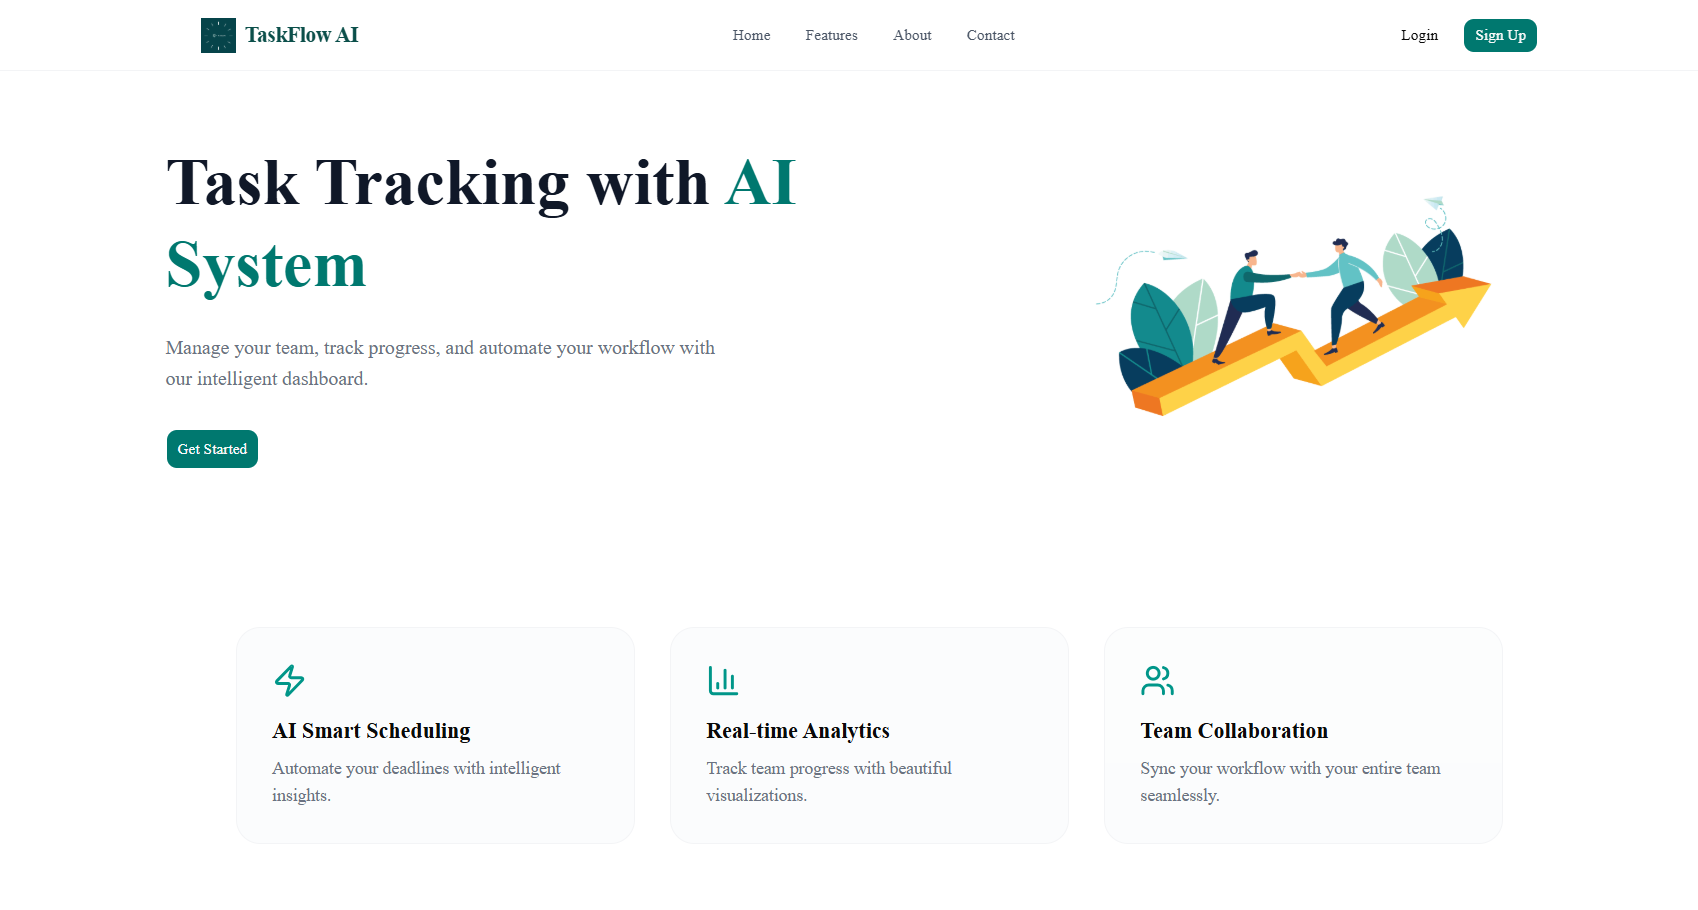
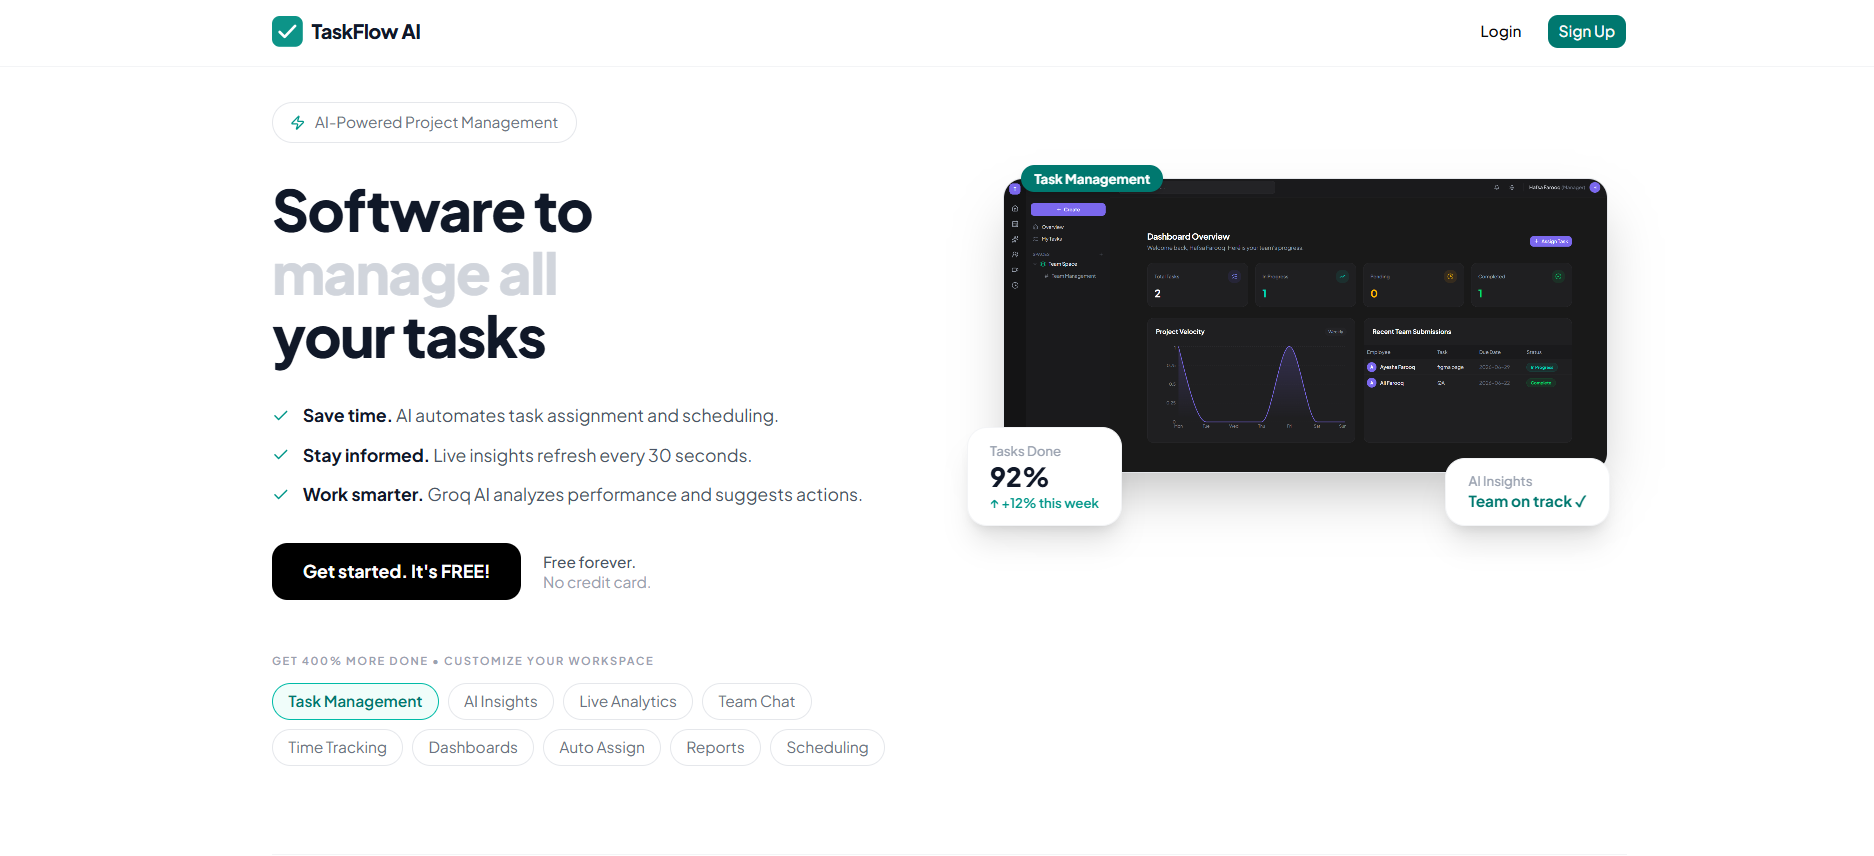
add another project

diff --git a/components/Projects.tsx b/components/Projects.tsx
@@ -43,7 +43,7 @@ const projects = [
   },
   // Project 6
   { title: "Rock-Paper-Scissors-GAME",
-    desc: "Description here", 
+    desc: "Rock-Paper-Scissors-GAME between You and the Computer", 
     tags: ["HTML", "Custom Css", "JavaScript"],
     img: "/Rock-paper-scissors-game.png", 
     demo: "https://rock-paper-scissors-game-project-orcin.vercel.app", 
@@ -76,7 +76,7 @@ const projects = [
   // Project 10
 
   { title: "Currency-Convertor",
-    desc: "Description here",
+    desc: "Convert the currency according to the selected countries",
     tags: ["HTML", "Custom Css", "JavaScript"], 
     img: "/currency-convertor.png",  
     demo: "https://landing-page-lac-three-67.vercel.app",  
@@ -85,7 +85,7 @@ const projects = [
   // Project 11
 
   { title: "TIC-TAC-GAME",
-    desc: "Description here",
+    desc: "TIC-TAC-GAME",
     tags: ["HTML", "Custom Css", "JavaScript"],      
     img: "/TIC-TAC-Game.png", 
     demo: "https://tic-tac-game-orcin-eta.vercel.app",  
@@ -116,8 +116,8 @@ const projects = [
   desc: "AI-powered project management web app with manager/employee dashboards, real-time analytics, Groq AI insights, and live performance tracking.",
   tags: ["Next.js", "TypeScript", "Tailwind CSS", "Supabase", "PostgreSQL", "Groq AI", "Llama 3.3", "Recharts", "Framer Motion", "Shadcn/UI"],
   img: "/taskflow-ai.png",
-  demo: "https://project-tracking-system-sandy.vercel.app",
-  github: "https://github.com/Hafsa-Farooq/Project-Tracking-System.git"
+  demo: "https://project-tracking-system-sage.vercel.app",
+  github: "https://https://github.com/Hafsa-Farooq/Project-Tracking-System"
 }
 ];
 
